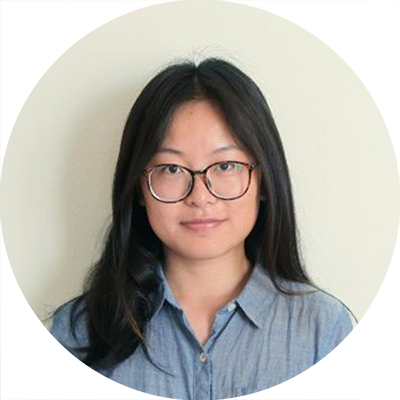
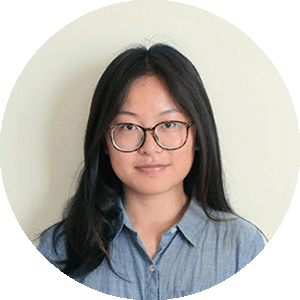
picture content

diff --git a/about.html b/about.html
@@ -89,7 +89,16 @@
 					</div>
 					</div>
 				</div>
+
+				
+			
 			</div>
+
+
+					<h4 style="margin-left: 18%; margin-right: 18%; margin-top:50px">
+						For any further questions or inquiries, please contact us at petme@petmegames.com
+					</h4>
+
 			<div class ="endSpacer">
 			</div>
 

diff --git a/css/styles.css b/css/styles.css
@@ -263,6 +263,10 @@ img-responsive-mod {
   height: auto;
 }
 
+/*.teamAbout div img {
+  max-width: 300px;
+}*/
+
 .aboutContentText {
   font-size: 15px;
 }
